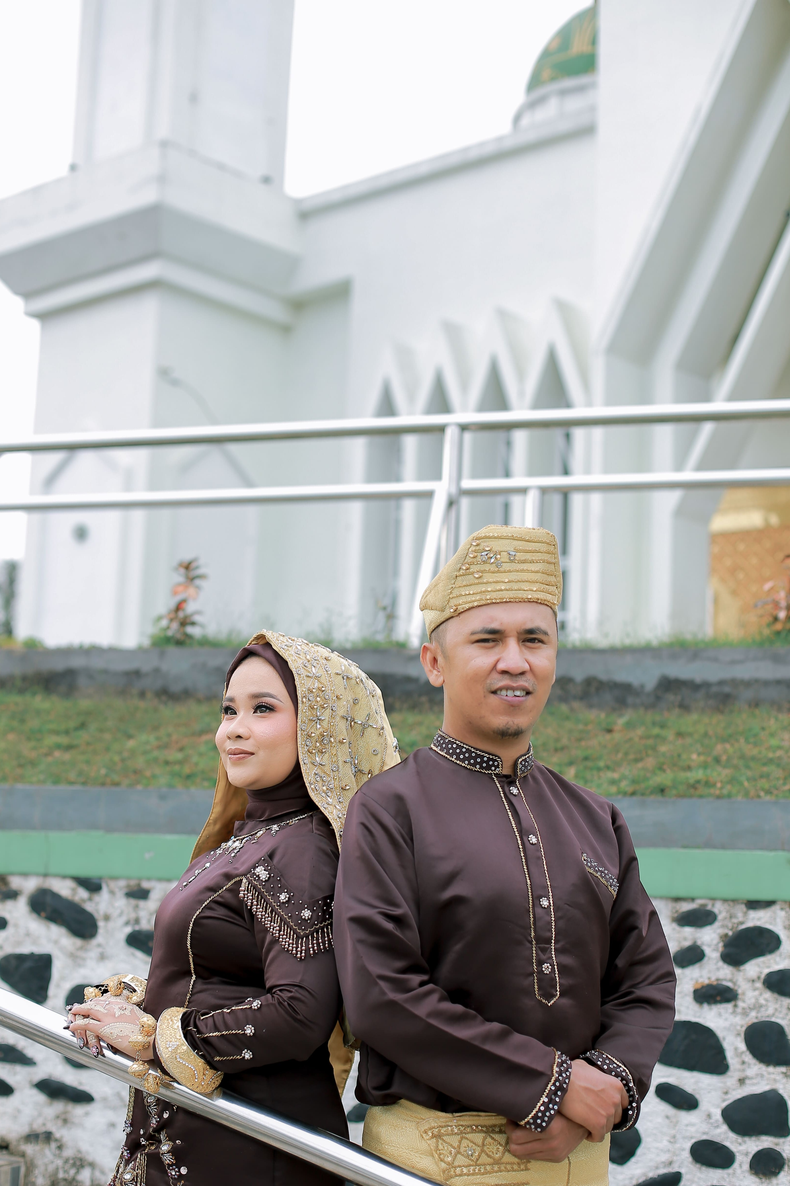
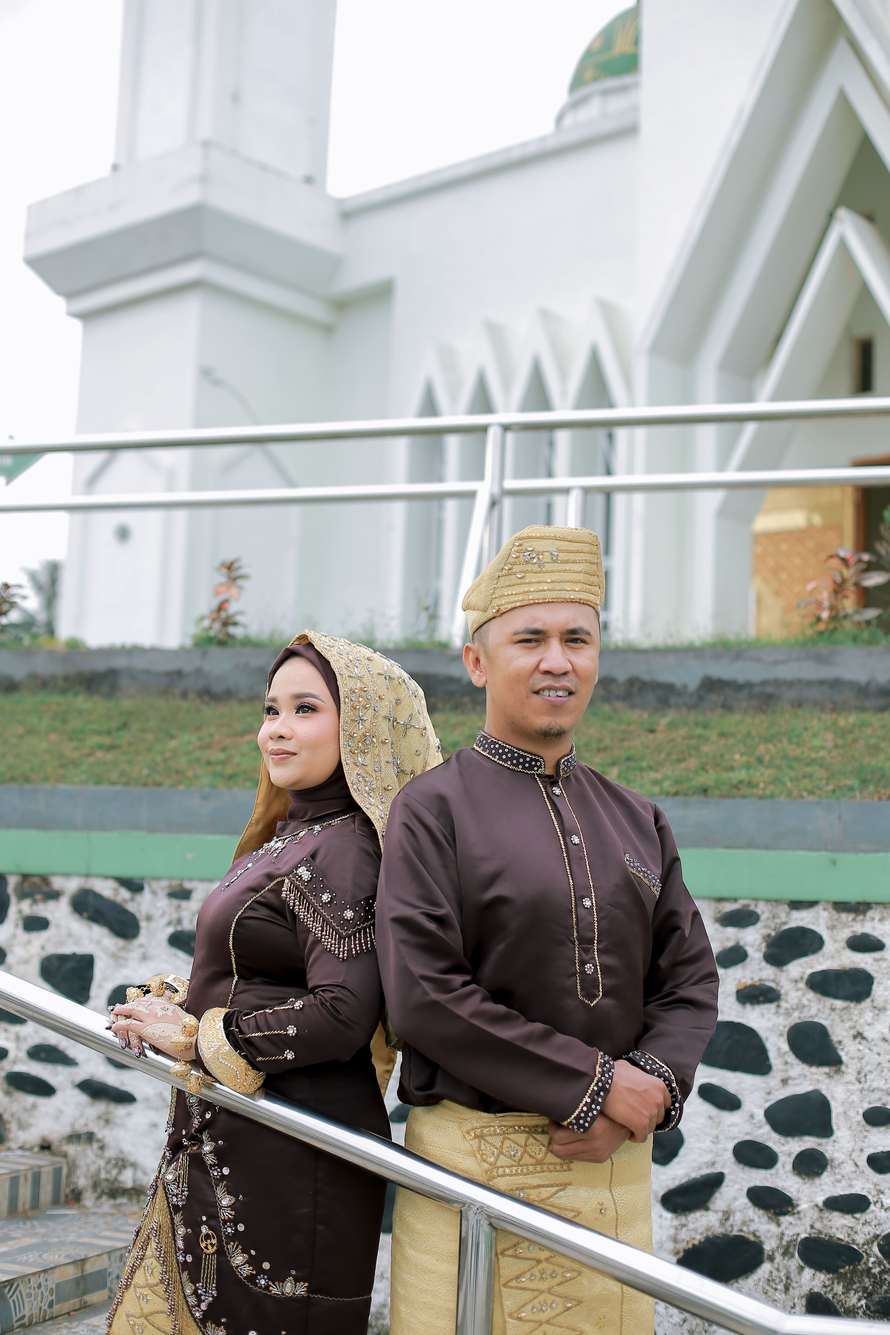
hero

diff --git a/css/ket2.css b/css/ket2.css
@@ -5,7 +5,7 @@
 #fh5co-header {
 	/* The image used */
 	background-image: url("../img/Hero.jpg");
-	height: 100vh;
+	height: 120vh;
 	/* Center and scale the image nicely */
 	/* background-attachment: fixed; */
 	background-position: center;
